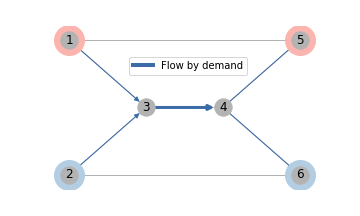
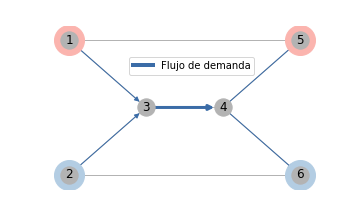
correcciones en primera parte

Changed region(s): [[0.4583, 0.25, 0.7028, 0.3611]]

diff --git a/thesis/doc/document.tex b/thesis/doc/document.tex
@@ -42,19 +42,19 @@
 
   Este trabajo se ubica dentro del contexto de diseño y planificación de ciclovías en una ciudad. Dada una red que modela una ciudad, denotada por un grafo dirigido $G=(N,A)$, compuesto por el conjunto de vértices $N$ y el conjunto de arcos $A$; un conjunto de pares origen-destino $OD \subseteq N^2$, y su demanda asociada $D = \{d_k,\; k \in OD\}$; y funciones $f_k,\;k \in OD$ que determinan la proporción de la demanda de cada par origen-destino que utiliza la bicicleta en función del costo de usuario de ir desde el origen de $k$ a su destino. El objetivo es maximizar la cantidad de demanda que utiliza la bicicleta como modo de transporte. Para poder lograr esto, asumiendo que los usuarios utilizan el camino más corto, se cuenta con diferentes infraestructuras de ciclovías y un presupuesto, que de ser utilizados permiten disminuir el costo percibido por los usuarios al utilizar la bicicleta y por lo tanto potencialmente influir en la decisión de utilizarla como modo de transporte.
 
-  Partimos de una formulación matemática binivel del problema ya que nos da una representación directa y clara de lo que queremos resolver. Este tipo de problema generalmente se estructura definiendo dos entidades en diferentes niveles que representan intereses (un objetivo) no necesariamente alineados. En nuestra formulación, el primer nivel representa la comuna (o entidad que toma decisiones sobre las ciclovías) y busca maximizar la cantidad de usuarios que utilizan la bicicleta por medio de la decisión de la ubicación y tipo de ciclovías a utilizar en cada arco de la red. El segundo nivel representa a los usuarios y busca minimizar el costo del camino más corto para cada par origen destino. Intuitivamente, se llegaría a la resolución del problema luego de una sucesión de decisiones alternadas entre los subproblemas de primer y segundo nivel donde las decisiones de uno afectan al otro.
+  Partimos de una formulación matemática binivel del problema ya que nos da una representación directa y clara de lo que queremos resolver. Este tipo de problema generalmente se estructura definiendo dos entidades en diferentes niveles que representan intereses (un objetivo) no necesariamente alineados. En nuestra formulación, el primer nivel representa la comuna (o entidad que toma decisiones sobre las ciclovías) y busca maximizar la cantidad de usuarios que utilizan la bicicleta por medio de la decisión de la ubicación y tipo de ciclovías a utilizar en cada arco de la red. El segundo nivel representa a los usuarios y busca minimizar el costo del camino más corto para cada par origen-destino. Intuitivamente, se llegaría a la resolución del problema luego de una sucesión de decisiones alternadas entre los subproblemas de primer y segundo nivel donde las decisiones de uno afectan al otro.
 
   Analizaremos los problemas por separado y luego relacionados para ver cómo el planteo binivel resuelve nuestro problema. En primer lugar discutiremos unas consideraciones respecto a lo que esperamos como salida, o de otra forma, lo que nos interesa obtener de la resolución. Viendo exclusivamente el objetivo, podemos decir que el planteo binivel es un modelo que, correctitud asumida, nos dice cuánta demanda se puede atraer a la bicicleta como medio de transporte dado un presupuesto y la realidad de una ciudad (datos de red y matriz de demanda). Esto tiene sentido por si mismo, ya que permite tomar decisiones fundadas sobre qué presupuesto tiene sentido asignar a la construcción de ciclovías en dicha ciudad. Sin embargo, entendemos que el valor de demanda que se pasa a la bicicleta no es independiente de las decisiones de dónde y cuáles infraestructuras de ciclovía construir, por eso, estas decisiones también son de interés, dado que no es posible esperar que el planteo modele la realidad si luego la realidad no se comporta como el modelo.
 
-  El problema del segundo nivel es el clásico problema de encontrar el costo del camino más corto entre un par de nodos en un grafo, resoluble con complejidad de tiempo polinomial \footnote{Ejemplo: Dijkstra, Bellman-Ford, Formulación LP de flujo de costo mínimo y otros.}. Si bien son en realidad $|OD|$ pares de nodos aunque la red subyacente sea compartida no hay relación entre ellos dado que las decisiones tomadas por un par origen destino no afectan a otros (esto podría suceder, por ejemplo, si manejamos capacidad por arco), por lo tanto en realidad son $|OD|$ problemas independientes de costo del camino más corto. Este problema modela el comportamiento de los usuarios que en general no somos perfectos optimizadores ya que nos trasladamos por los caminos más cortos según nuestro entendimiento, según cierta magnitud, entre un par de puntos (TODO: referencia).
+  El problema del segundo nivel es el clásico problema de encontrar el costo del camino más corto entre un par de nodos en un grafo, resoluble con complejidad de tiempo polinomial \footnote{Ejemplo: Dijkstra, Bellman-Ford, Formulación LP de flujo de costo mínimo y otros.}. Si bien son en realidad $|OD|$ pares de nodos aunque la red subyacente sea compartida no hay relación entre ellos dado que las decisiones tomadas por un par origen-destino no afectan a otros (esto podría suceder, por ejemplo, si manejamos capacidad por arco), por lo tanto en realidad son $|OD|$ problemas independientes de costo del camino más corto. Este problema modela el comportamiento de los usuarios que en general no somos perfectos optimizadores ya que nos trasladamos por los caminos más cortos según nuestro entendimiento, según cierta magnitud, entre un par de puntos (TODO: referencia).
 
   El problema maestro es el que de alguna manera interrelaciona a los $|OD|$ problemas del costo del camino más corto. Por ejemplo, decidir construir una infraestructura de ciclovías en un arco puede afectar el costo del camino más corto para varios pares origen-destino. Por otro lado, puede pensarse que decidir dónde construir infraestructuras está ligado al recorrido de los caminos más cortos en primer lugar, pero como se muestra en el siguiente ejemplo esto no necesariamente es así. El problema maestro tampoco es independiente del recorrido de los caminos más cortos, sin embargo, estos recorridos deberían computarse una vez decididas las infraestructuras a construir, y esta es la dificultad inherente del problema, dado que no es posible determinar qué decisiones inducen los mejores caminos. El problema maestro esta decidiendo a ciegas, o dicho de otra manera, es un problema combinatorio.
 
   \subsection{Ejemplo - Aplicación de la formulación binivel}
 
-  Consideramos una instancia del problema y su solución óptima para mostrar cómo el planteo binivel resuelve, o mejor dicho, la solución óptima cumple con las condiciones de este planteo.
+  Consideramos una instancia del problema y su solución óptima para mostrar cómo el planteo binivel resuelve, o mejor dicho, cómo la solución óptima cumple con las condiciones de este planteo.
 
-  Sea la red modelada por el grafo de la figura (\ref{fig:example1base}), donde tenemos dos pares origen destino (1, 5) y (2, 6) cada uno con una demanda $D$, un presupuesto de 11, dos tipos de infraestructuras: base e infraestructura 1; consideramos la red de calle como una infraestructura más cuyo costo de construcción es 0 y el costo de usuario es el que se muestra para cada arco, la otra infraestructura tiene un costo de construcción igual al costo de usuario de la infraestructura base y un costo de usuario que es la mitad del costo de usuario de la infraestructura base, ver tabla (\ref{table:example1arccosts}). Finalmente, la transferencia de la demanda a la bicicleta en función del costo del camino más corto está modelada por la siguiente función:
+  Sea la red modelada por el grafo de la figura (\ref{fig:example1base}), donde tenemos dos pares origen-destino (1, 5) y (2, 6) cada uno con una demanda $D$, un presupuesto de 11, dos tipos de infraestructuras: base (red de calles) e infraestructura 1. Consideramos la red de calle como una infraestructura cuyo costo de construcción es 0 y el costo de usuario es el que se muestra para cada arco, la infraestructura 1 tiene un costo de construcción igual al costo de usuario de la infraestructura base y un costo de usuario que es la mitad del costo de usuario de la infraestructura base, ver tabla (\ref{table:example1arccosts}). Finalmente, la transferencia de la demanda a la bicicleta en función del costo del camino más corto está modelada por la siguiente función:
 
   $$
     f(x) = \left\{ \begin{array}{lcr}
@@ -86,26 +86,27 @@
   \begin{figure}[h!]
     \centering
     \includegraphics[width=6cm]{../resources/example_1_base.png}
-    \caption{Representación de la red utilizada para el ejemplo de aplicación de la formulación binivel. Los dos pares origen destino se detallan con un color diferente cada uno. Cada arco tiene una etiqueta con el costo de usuario sobre la infraestructura base, es decir, la red de calles.}
+    \caption{Representación de la red utilizada para el ejemplo de aplicación de la formulación binivel. Los dos pares origen-destino se detallan con un color diferente. Cada arco tiene una etiqueta con el costo de usuario sobre la infraestructura base, es decir, la red de calles.}
     \label{fig:example1base}
   \end{figure}
 
-  Podemos deducir rápidamente en la figura de la red (\ref{fig:example1base}) que el camino más corto para ambos pares origen destino sobre la red de calles de 1 arco y de costo 6. El objetivo entonces es decidir dónde construir infraestructuras 1 tal que el costo de los caminos más cortos de uno o ambos pares origen-destino sea menor a 4 (dado por la función de transferencia de demanda) de manera que una cantidad $D$ o $2D$ de demanda sea transferida a la bicicleta. Si decidimos utilizar infraestructura 1 en alguno de los arcos (1, 5) o (2, 6), digamos el primero, entonces nos aseguramos que la demanda del par origen-destino (1, 5) sera transferida a la bicicleta ya que su nuevo costo del camino más corto pasa a ser $3$. Con el presupuesto remanente de $5$, solo podremos construir infraestructura 1 en a lo sumo dos de los arcos (2, 3), (3, 4) y (4, 5). No es difícil ver que a lo sumo podremos mejorar el costo del camino más corto a $4.5$ para el par origen destino (2, 6). La demanda transferida total en este caso es entonces de $D$.
+  Podemos deducir rápidamente en la figura de la red (\ref{fig:example1base}) que el camino más corto para ambos pares origen-destino sobre la red de calles está compuesto de un arco con costo 6. El objetivo entonces es decidir dónde construir infraestructuras 1 tal que el costo de los caminos más cortos de uno o ambos pares origen-destino sea menor a 4 (dado por la función de transferencia de demanda), de manera que una cantidad $D$ o $2D$ de demanda sea transferida a la bicicleta. Si decidimos utilizar infraestructura 1 en alguno de los arcos (1, 5) o (2, 6), digamos el primero, entonces nos aseguramos que la demanda del par origen-destino (1, 5) será transferida a la bicicleta, ya que el costo del camino más corto pasa a ser $3$. Con el presupuesto remanente de $5$, solo podremos construir infraestructura 1 en a lo sumo dos de los arcos (2, 3), (3, 4) y (4, 5). No es difícil ver que a lo sumo podremos mejorar el costo del camino más corto a $4.5$ para el par origen-destino (2, 6). La demanda transferida total en este caso es entonces de $D$.
 
-  La solución óptima viene de construir infraestructura 1 en todos los arcos del grafo menos los (1, 5) y (2, 6). Esto permite que ambos pares origen destino tengan un nuevo recorrido como camino más corto, de costo $3.5$, lo que permite, según la función de transferencia de demanda, transferir $2D$ unidades de demanda. Esta solución se puede observar gráficamente en la figura (\ref{fig:example1solution}).
+  La solución óptima viene de construir infraestructura 1 en todos los arcos del grafo menos los (1, 5) y (2, 6). Esto permite que ambos pares origen-destino tengan un nuevo recorrido como camino más corto, de costo $3.5$, lo que permite, según la función de transferencia de demanda, transferir $2D$ unidades de demanda. Esta solución se puede observar gráficamente en la figura (\ref{fig:example1solution}).
 
   \begin{figure}[h!]
     \centering
     \includegraphics[width=6cm]{../resources/example_1_infras.png}
     \includegraphics[width=6cm]{../resources/example_1_flows.png}
-    \caption{Representación de la solución óptima en el grafo. A la izquierda se muestra en naranja en cuáles arcos se construye la infraestructura 1. A la derecha, los flujos sobre los caminos más cortos para ambos pares origen-destino, en azul, nótese que el ancho del arco en este caso da una noción de la cantidad flujo.}
+    \caption{Representación de la solución óptima en el grafo. A la izquierda se muestra en naranja en cuáles arcos se construye la infraestructura 1. A la derecha, en azul, los flujos sobre los caminos más cortos para ambos pares origen-destino. Nótese que el ancho del arco en este caso da una noción de la cantidad flujo.}
     \label{fig:example1solution}
   \end{figure}
 
-  Para mostrar que la solución es óptima para la formulación binivel, podemos decir que no hay asignación de infraestructuras a arcos que induzcan una demanda transferida mayor dado los caminos más cortos encontrados para cada par origen-destino, para cada otra asignación posible analizada.
-  Este ejemplo trivial nos da una idea de la complejidad combinatoria que tiene este problema. Supongamos que a la red existente se le agregan aleatoriamente 100 nodos y arcos de alto costo de usuario suficientes para lograr que sea 4-conexo, por decir algo, entonces tendríamos que la solución óptima es la misma, pero esta vez deberíamos analizar mucho mas posibilidades, dada la naturaleza compartida de las infraestructuras de ciclovía.
+  Para mostrar que la solución es óptima para la formulación binivel podemos decir que no hay asignación de infraestructuras a arcos que induzcan una demanda transferida mayor, dados los caminos más cortos encontrados para cada par origen-destino, para cada otra asignación posible analizada.
 
-  Finalmente, una dificultad intrínseca de las formulaciones binivel es que no existen maneras de resolverlos directamente con un solver por lo que luego analizaremos maneras de reformular el planteo y analizar formulaciones alternativas.
+  Este ejemplo trivial nos da una idea de la complejidad combinatoria que tiene este problema. Supongamos que a la red existente se le agregan aleatoriamente 100 nodos y arcos de alto costo de usuario, suficientes para lograr que sea 4-conexo, por ejemplo, entonces tendríamos que la solución óptima es la misma pero esta vez deberíamos analizar muchas más posibilidades, dada la naturaleza compartida de las infraestructuras de ciclovía.
+
+  Finalmente, una dificultad intrínseca de las formulaciones binivel es que no existen maneras de resolverlas directamente con un solver, por lo que luego analizaremos algunas maneras de reformular el planteo.
 
   \subsection{Algunas hipótesis}
 
@@ -113,12 +114,12 @@
 
   \begin{itemize}
     \item{El tiempo de viaje en todo arco de la red es independiente del flujo sobre el mismo.}
-    \item{Existen diferentes pares origen-destino en la red, cada uno con un valor de demanda, y para cada origen y destino existen potencialmente diferentes caminos que unen el origen y el destino.}
+    \item{Existen diferentes pares origen-destino en la red, cada uno con un valor de demanda, y para cada par existen potencialmente diferentes caminos que unen el origen y el destino.}
     \item{Los usuarios siempre buscan minimizar el costo de su viaje (todos son
     perfectos optimizadores y se comportan igual)}
   \end{itemize}
 
-  Sobre la red, consideramos que los grafos son dirigidos y cuando se decide construir una infraestructura sobre un arco solo se hace en la dirección del arco. Esto simplifica el modelado pero puede no ser tan realista considerando que el costo marginal de construir una infraestructura dado que existe la misma infraestructura en el otro sentido es menor al costo de construir la primera. También puede resultar en que dado dos nodos adyacentes mutuamente, se decida construir diferentes infraestructuras en cada sentido. Sin embargo, dado que en general las redes que modelan las ciudades sobre las que se quieren resolver estos problemas son una simplificación de la red de calles, las consideraciones irreales mencionadas no tienen consecuencia práctica.
+  Sobre la red, consideramos que los grafos son dirigidos y cuando se decide construir una infraestructura sobre un arco solo se hace en la dirección del mismo. Esto simplifica el modelado pero puede no ser tan realista considerando que el costo marginal de construir una infraestructura, dado que existe la misma infraestructura en el otro sentido, es menor al costo de construir la primera. También puede resultar en que dados dos nodos mutuamente adyacentes, se decida construir diferentes infraestructuras en cada sentido. Sin embargo, dado que en general las redes que modelan las ciudades sobre las que se quieren resolver estos problemas son una simplificación de la red de calles, las consideraciones irreales mencionadas no tienen consecuencia práctica.
 
   La formulación que planteamos considera aspectos de modelos descriptivos en donde el objetivo es simular el comportamiento de los usuarios, y modelos normativos (o de optimización) en donde el objetivo es mejorar las decisiones que afectan un proceso. TODO: Referencias y mención sobre complejidad de mezclar ambos.
 
@@ -139,14 +140,14 @@
   Finalmente presentamos la formulación matemática formal. Sean:
 
   \begin{description}
-    \item[$OD$]: Conjunto de pares origen destino con elemento genérico $k$.
+    \item[$OD$]: Conjunto de pares origen-destino con elemento genérico $k$.
     \item[$G=(N,A)$]: Grafo dirigido que modela la red, con su conjunto de nodos $N$ y de arcos $A$. $A_n^+$ y $A_n^-$ son los conjuntos de arcos que salen y entran respectivamente desde el nodo $n$.
     \item[$I$]: Conjunto de infraestructuras de ciclovías.
     \item[$C_{ai}$]: Costo de usuario de atravesar el arco $a \in A$ utilizando la infraestructura $i \in I$. $C_{ai} > 0$.
     \item[$H_{ai}$]: Costo de construcción de la infraestructura $i \in I$ en el arco $a \in A$. $H_{ai} \geq 0$ .
     \item[$B$]: Presupuesto para la construcción de infraestructuras.
     \item[$\theta_{nk}$]: Parámetro que vale 1 si n es el origen del par origen-destino $k \in OD$, -1 si es el destino y 0 en otro caso.
-    \item[$w_k$]: Variable de primer nivel que contiene el valor del camino más corto para el par origen destino $k \in OD$.
+    \item[$w_k$]: Variable de primer nivel que contiene el valor del camino más corto para el par origen-destino $k \in OD$.
     \item[$y_{ai}$]: Variable binaria de primer nivel que determina si la infraestructura $i \in I$ está activa en el arco $a \in A$.
     \item[$x_{ak}$]: Variable de segundo nivel que determina si el arco $a \in A$ es parte del camino más corto para el par origen-destino $k \in OD$.
     \item[$f_k$]: Función que determina la demanda que utiliza la bicicleta como modo de transporte en función del costo del camino mas corto.
@@ -344,7 +345,7 @@
 
   Lo que resta definir es cómo modelamos las funciones $f_k$. Nuestra objetivo es definir un mecanismo para que cualquier tipo de función pueda ser expresada y que se acople a la formulación de manera que sea resoluble con un solver lineal.
 
-  Podemos encontrar en la literatura soluciones a problemas similares. En Laporte 2007 (\ref{laporte2007}) y Lim 2021 (\ref{lim2021}), se considera un parámetro $c^{PRIV}_k$ que modela el costo del transporte privado para un par origen-destino $k$, si la red de transporte público logra un costo menor entonces se considera que toda la demanda del par origen-destino $k$ se transfiere a dicho modo. En general, en la literatura se modela la transferencia de demanda con un umbral para cada par origen destino, luego se compara la magnitud de interés y se decide si se transfiere o no la totalidad de la demanda.
+  Podemos encontrar en la literatura soluciones a problemas similares. En Laporte 2007 (\ref{laporte2007}) y Lim 2021 (\ref{lim2021}), se considera un parámetro $c^{PRIV}_k$ que modela el costo del transporte privado para un par origen-destino $k$, si la red de transporte público logra un costo menor entonces se considera que toda la demanda del par origen-destino $k$ se transfiere a dicho modo. En general, en la literatura se modela la transferencia de demanda con un umbral para cada par origen-destino, luego se compara la magnitud de interés y se decide si se transfiere o no la totalidad de la demanda.
 
   \subsubsection{Definición propuesta}
 
@@ -511,7 +512,7 @@
 
   Este ejemplo busca ilustrar por qué es necesario agregar lo que en definitiva es multiples objetivos, para obtener no solo la demanda transferida sino que una buena decisión de ubicación y tipo de infraestructuras.
 
-  Para este ejemplo utilizaremos como base la red descrita en el cuadro (\ref{table:example2arccosts}) y en de la figura (\ref{fig:example2base}). Al igual que el ejemplo presentado al principio, consideramos el costo de usuario sobre la infraestructura base el que se detalla en dicha figura así como el costo de construcción de la primer infraestructura no base. Consideramos solo dos tipos de infraestructuras, la base y una tipo que reduce el costo de usuario a la mitad; un par origen destino, el $(1, 6)$ con demanda $D$, un presupuesto de 5 y la siguiente función de transferencia de demanda:
+  Para este ejemplo utilizaremos como base la red descrita en el cuadro (\ref{table:example2arccosts}) y en de la figura (\ref{fig:example2base}). Al igual que el ejemplo presentado al principio, consideramos el costo de usuario sobre la infraestructura base el que se detalla en dicha figura así como el costo de construcción de la primer infraestructura no base. Consideramos solo dos tipos de infraestructuras, la base y una tipo que reduce el costo de usuario a la mitad; un par origen-destino, el $(1, 6)$ con demanda $D$, un presupuesto de 5 y la siguiente función de transferencia de demanda:
 
   $$
     f(x) = \left\{ \begin{array}{lcr}
@@ -621,7 +622,7 @@
     \caption{Comparativa agregada de ejecuciones sobre instancias aleatorias utilizando el la red Sioux-Falls. Los incumplimientos de una solución fueron contados en 1 si una solución no cumplía alguno de los puntos y 0 sino. En las versiones v2 y v4 los incumplimientos detectados incumplen únicamente el punto (\ref{budgetexcess}) de las características de una solución.}\label{table:resumenejecuciones}
   \end{table}
 
-  En las pruebas no detectamos diferencias en términos de los valores objetivos entre diferentes formulaciones a menos de un caso. Para la versión $v1$ y $v3$, encontramos que la presencia de variables $r$ en el objetivo puede afectarlo cuando se cumple que el valor de demanda transferida para un par origen-destino $k$ es comparable a la magnitud de $r_{kj}$ para algún $j$. Por ejemplo, si para un par origen destino se puede optimizar el camino más corto de manera de ganar una unidad de demanda transferida pero esto afecta las variables $r_{kj}$ de todos los pares origen destino de manera negativa, entonces el modelo puede elegir no realizar dicha optimización dependiendo de las magnitudes.
+  En las pruebas no detectamos diferencias en términos de los valores objetivos entre diferentes formulaciones a menos de un caso. Para la versión $v1$ y $v3$, encontramos que la presencia de variables $r$ en el objetivo puede afectarlo cuando se cumple que el valor de demanda transferida para un par origen-destino $k$ es comparable a la magnitud de $r_{kj}$ para algún $j$. Por ejemplo, si para un par origen-destino se puede optimizar el camino más corto de manera de ganar una unidad de demanda transferida pero esto afecta las variables $r_{kj}$ de todos los pares origen-destino de manera negativa, entonces el modelo puede elegir no realizar dicha optimización dependiendo de las magnitudes.
   También se observó que en las versiones v2 y v4, sin variables $r$ ni optimización multiobjetivo, se ven afectadas en algunos casos la validez del ítem (\ref{budgetexcess}) de la característica de una solución. Esto se explica en casos en que la construcción de una infraestructura en un arco puede mejorar el costo del camino más corto pero no lo suficiente para afectar la cantidad de demanda transferida. Esto implica que las decisiones de qué infraestructuras construir es menos óptima que en las otras variantes, por ejemplo, para un par origen-destino y dos puntos de quiebre consecutivos, pueden haber varias asignaciones de infraestructuras a arcos que logren un costo de camino entre dichos puntos de quiebre, entonces si no hay incentivos para elegir el de menor costo cualquiera de ellos puede ser elegido.
   A menos de las diferencias encontradas para algunos valores de demanda transferida para las versiones, consideramos que las versiones con variables $r$ y con optimización multiobjetivo son las candidatas a ser elegidas como versión final.
 
@@ -953,7 +954,7 @@
   \begin{figure}[h!]
     \centering
     \includegraphics[width=12cm]{../resources/montevideo_demands.png}
-      \caption{Representación de demanda por ubicación de origen y destino. Los tamaños de los circlulos son proporcionales al valor de demanda. Los primeros 200 pares origen destino con mayor demanda representados aqui concentran casi el 85\% de la demanda total sobre los pares origen-destino considerados en esta sección.}
+      \caption{Representación de demanda por ubicación de origen y destino. Los tamaños de los circlulos son proporcionales al valor de demanda. Los primeros 200 pares origen-destino con mayor demanda representados aqui concentran casi el 85\% de la demanda total sobre los pares origen-destino considerados en esta sección.}
     \label{fig:montevideodemanddist}
   \end{figure}
 
@@ -1131,7 +1132,7 @@
 
   \begin{table}[h!]
     \centering
-    \caption*{{\bf Pares origen destino de la instancia de Sioux Falls}}
+    \caption*{{\bf Pares origen-destino de la instancia de Sioux Falls}}
     \begin{tabular}{ccc}
       \toprule
         Origen & Destino & Demanda \\
@@ -1160,7 +1161,7 @@
         22 & 18 & 6 \\
       \bottomrule
     \end{tabular}
-    \caption{Pares origen destino utilizados para la red de Sioux-Falls con costos por arco.}\label{table:siouxfallsdemanddata}
+    \caption{Pares origen-destino utilizados para la red de Sioux-Falls con costos por arco.}\label{table:siouxfallsdemanddata}
   \end{table}
 
   \section{Referencias}
